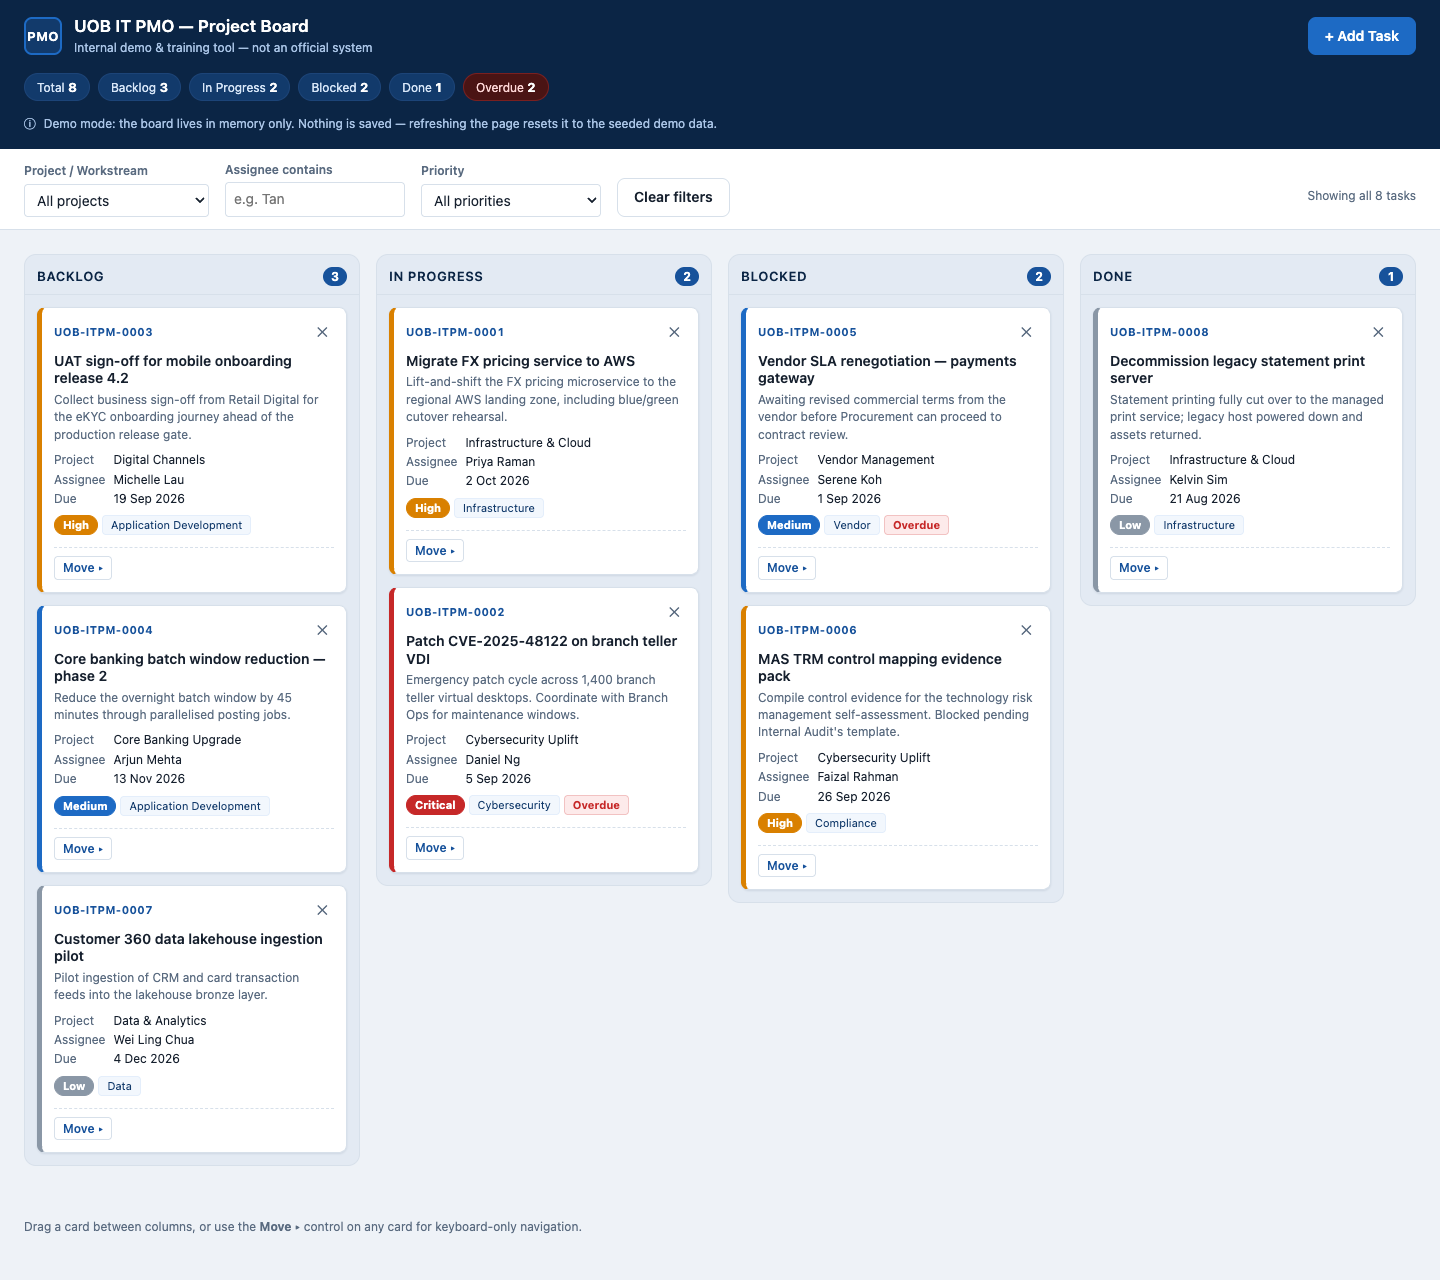
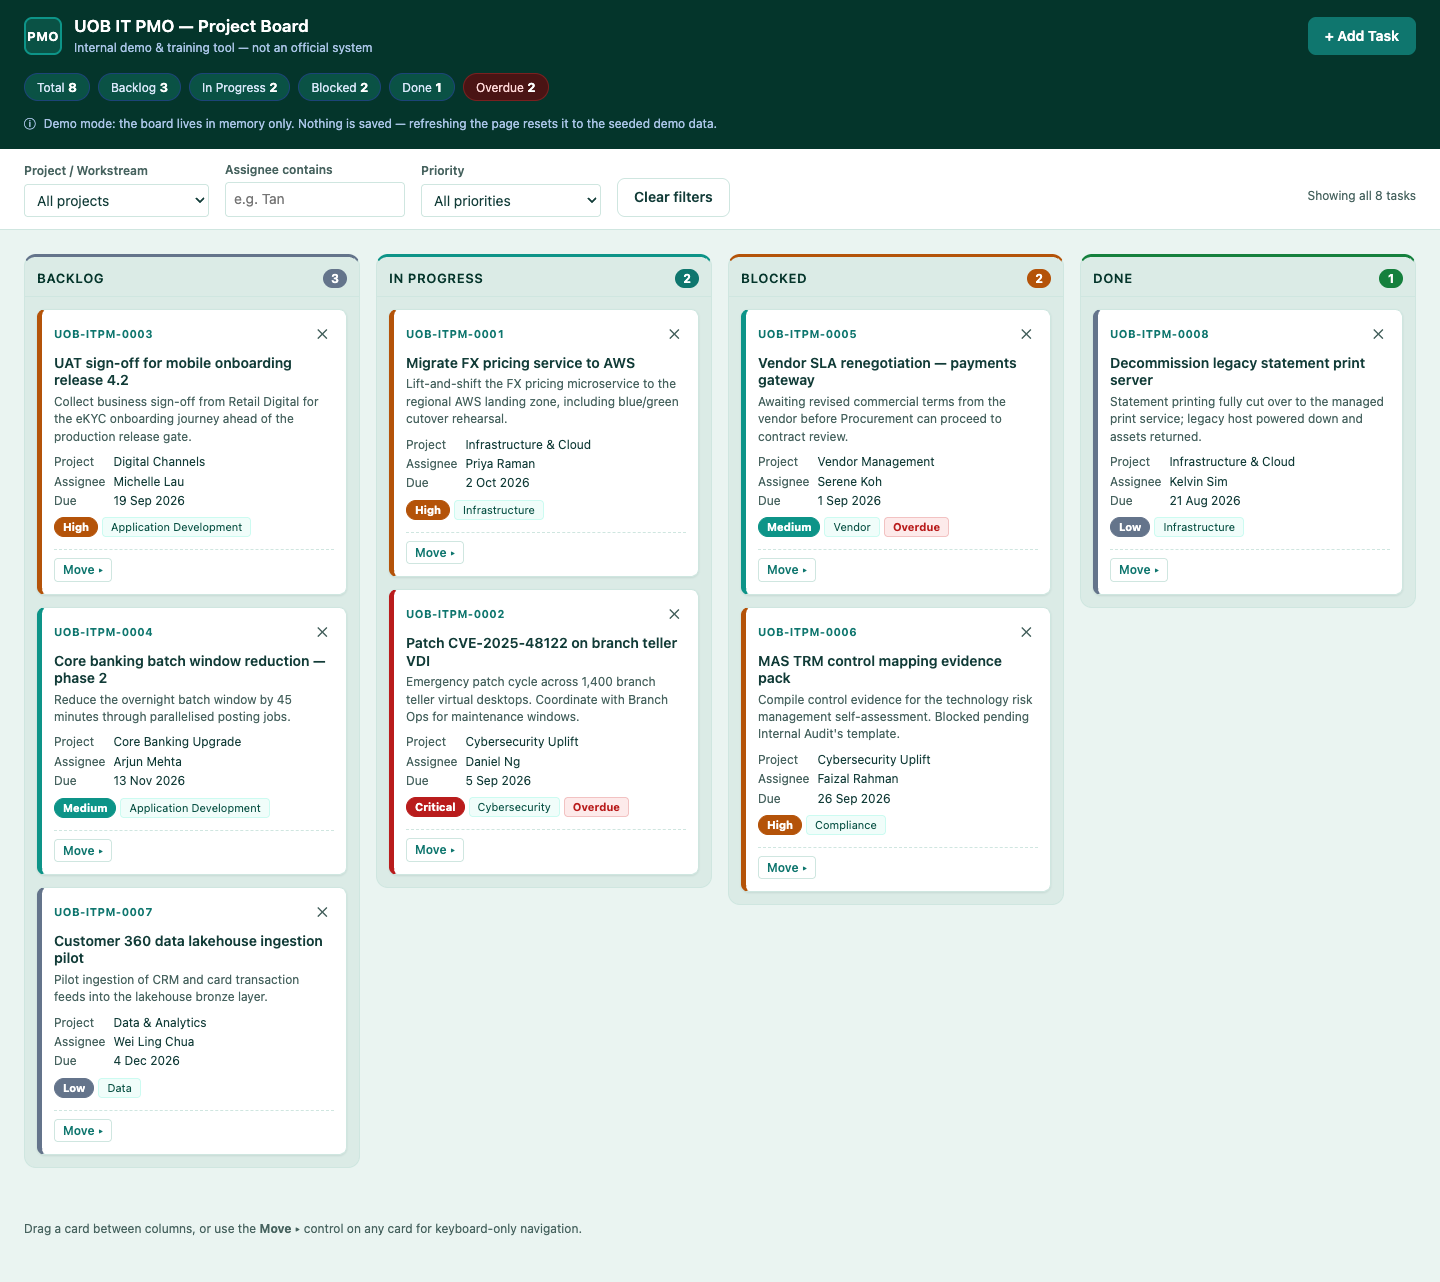
Update README screenshot and notes for the green board
Screenshot re-taken from the deployed site after the revamp, so it shows the
green palette and the per-column accents rather than the previous blue board.

Note in the feature list that column colour is a secondary cue with a text
label alongside it, and record the accessibility properties that are now
actually verified rather than assumed.

diff --git a/README.md b/README.md
@@ -6,7 +6,7 @@ dependencies.
 
 **Live demo: https://joinlianjie1985-collab.github.io/itprojectmanagement/**
 
-![The board, showing the four columns with seeded demo tasks](docs/screenshot.png)
+![The board: four colour-accented columns — Backlog, In Progress, Blocked, Done — with seeded demo tasks](docs/screenshot.png)
 
 > This is not an official system. The organisation, the projects and the people named
 > on the board are all fictional, and no real logos or trademarks are used.
@@ -23,7 +23,9 @@ open itprojectmanagement/index.html
 
 ## What it does
 
-- **Four columns** — Backlog, In Progress, Blocked and Done, each with a count badge.
+- **Four columns** — Backlog, In Progress, Blocked and Done, each with a count badge
+  and its own accent colour. Colour is a secondary cue only; every column is also
+  labelled, so nothing depends on colour alone.
 - **Add tasks** through a modal form with a title, description, project, category,
   assignee, priority and due date. Validation errors appear inline under each field.
 - **Move cards** by dragging them between columns, or through a keyboard-accessible
@@ -36,6 +38,9 @@ open itprojectmanagement/index.html
 - **Overdue highlighting** for any card past its due date that is not yet Done.
 - **Email notification** on new tasks, sent through FormSubmit's AJAX endpoint.
 - **Responsive layout** that stacks the columns below 768px.
+- **Accessible by construction** — WCAG AA contrast on all text, a visible focus ring
+  that is never removed, sequential heading levels, and `prefers-reduced-motion`
+  respected on card hover.
 
 ## Notes on how it is built
 
